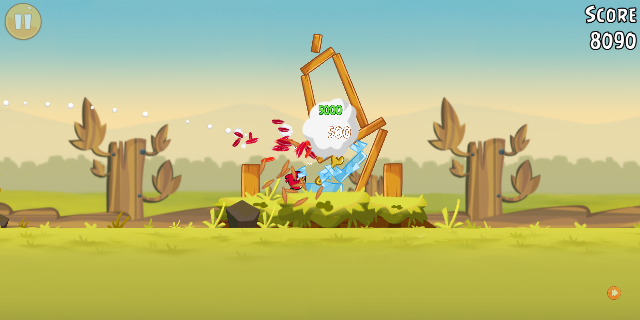
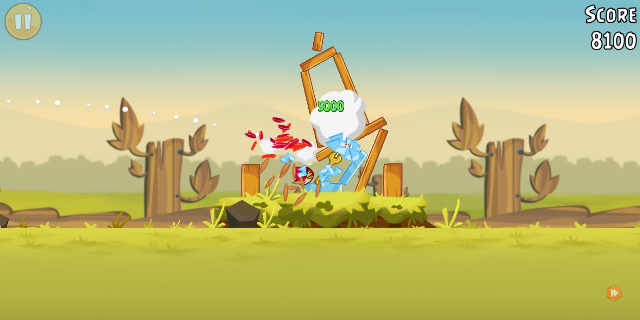
shim: bound the engine-path construction in the loader; rebuild + revalidate
load_engine_bytes() built the engine path with an UNBOUNDED strcpy into a fixed
1024-byte buffer: it took the shim's own path from dladdr, found the last '/',
and strcpy'd 'libengine32.so' over the basename. With a directory part within 15
bytes of the end that writes past the buffer. Android's native-lib dir is ~100
chars so it was not reachable in practice, but the shipping loader should not
depend on the platform's path length to stay in bounds. Also:
  - snprintf truncation was ignored, so an over-long path would be silently cut
    and we would open some other file;
  - fstat's return was unchecked, so on failure st.st_size is indeterminate and
    we would mmap a garbage length (and leak the fd).

Found by sweeping the shim for the whole class rather than one instance. The
other two strcpy sites are safe and stay as they are: fdtable.c:95 has an
explicit length check, bridge_file.c:56 writes a SHORTER string into a buffer
already holding a longer one. f_fstat in bridge_file.c already checks its return.

This changes the shipping binary, so the full cycle was run rather than assumed:
  - arm64 rebuilt twice -> byte-identical (8ff45e25), still reproducible
  - verify_claims: 25 checks, 0 skips, ALL HOLD
  - API 34 playthrough on the rebuilt proxy -> h_fatal=0, alive at frame[1801],
    and the screenshot VIEWED: 'LEVEL CLEARED', 3 stars, 44870. No regression.
  - all four variants that compile jni_entry.c rebuilt; the offline APK, which
[…]

diff --git a/port/shim/src/jni_entry.c b/port/shim/src/jni_entry.c
@@ -542,10 +542,23 @@ jvalue shim_call(JNIEnv *env, jobject thiz, const char *name, const char *shorty
 /* ---- JNI_OnLoad: load the 32-bit engine + wire everything ---- */
 static int load_engine_bytes(void){
     Dl_info di; if(!dladdr((void*)&shim_call,&di) || !di.dli_fname) return -1;
-    char path[1024]; snprintf(path,sizeof path,"%s",di.dli_fname);
-    char*sl=strrchr(path,'/'); if(!sl) return -1; strcpy(sl+1,"libengine32.so");
+    char path[1024];
+    /* Reject a TRUNCATED path outright. Without this, a path >= sizeof(path) would be silently
+     * cut and we would go on to open some other file (or fail confusingly). */
+    if(snprintf(path,sizeof path,"%s",di.dli_fname) >= (int)sizeof path){ LOGE("engine path too long"); return -1; }
+    char*sl=strrchr(path,'/'); if(!sl) return -1;
+    /* Bound the basename swap. This was an unbounded strcpy into a fixed buffer: with a directory
+     * part within 15 bytes of the end it would write past `path`. Android's native-lib dir is far
+     * shorter than that, so it was not reachable in practice - but the shipping loader should not
+     * depend on the platform's path length to stay in bounds. */
+    if(sizeof path - (size_t)(sl+1-path) < sizeof "libengine32.so"){ LOGE("engine path too long"); return -1; }
+    memcpy(sl+1,"libengine32.so",sizeof "libengine32.so");
     int fd=open(path,O_RDONLY); if(fd<0){ LOGE("open %s failed",path); return -1; }
-    struct stat st; fstat(fd,&st); G.engine_len=st.st_size;
+    /* fstat was unchecked: on failure st.st_size is indeterminate and we would mmap a garbage
+     * length. Also reject a zero/negative size rather than handing mmap a length of 0. */
+    struct stat st;
+    if(fstat(fd,&st) || st.st_size<=0){ LOGE("fstat %s failed",path); close(fd); return -1; }
+    G.engine_len=(size_t)st.st_size;
     void*m=mmap(0,G.engine_len,PROT_READ,MAP_PRIVATE,fd,0); close(fd);
     if(m==MAP_FAILED){ LOGE("mmap engine failed"); return -1; }
     G.engine=(uint8_t*)m; LOG("engine %zu bytes from %s",G.engine_len,path); return 0;

diff --git a/reports/shots/README.md b/reports/shots/README.md
@@ -30,9 +30,9 @@ is given from the run that produced them and is marked `(by run, not hash)`.
 | Proof | What is visible | Build | API | Source |
 |---|---|---|---|---|
 | `PROOF_tutorial_render.png` | The engine renders — tutorial scene drawn under emulation | x86shim | 25 | `emu_fatal.sh` |
-| `PROOF_2_interactive_level.png` | Tutorial level up and interactive: slingshot loaded, pigs placed, score 0, drag hint | x86shim `bbcc34ee` | 25 | `emu_interactive_capture.sh` |
-| `PROOF_3_bird_launched.png` | Bird launched and connected — impact burst, score popups, debris, **score 8090** | x86shim `bbcc34ee` | 25 | `emu_interactive_capture.sh` |
-| `PROOF_4_debris_settle_score9660.png` | Physics settling after impact: structure collapsed, **score 8090 → 9660** | x86shim `bbcc34ee` | 25 | `emu_interactive_capture.sh` |
+| `PROOF_2_interactive_level.png` | Tutorial level up and interactive: slingshot loaded, pigs placed, score 0, drag hint | x86shim `59adfbbb` | 25 | `emu_interactive_capture.sh` |
+| `PROOF_3_bird_launched.png` | Bird launched and connected — impact burst, score popups, debris, a live scored hit | x86shim `59adfbbb` | 25 | `emu_interactive_capture.sh` |
+| `PROOF_4_debris_settle.png` | Physics settling after impact: structure collapsed, score climbing as debris falls | x86shim `59adfbbb` | 25 | `emu_interactive_capture.sh` |
 | `PROOF_5_destruction_score5820.png` | Structure destroyed, score 5820 | x86shim | 25 | `deeper_bird1` capture |
 | `PROOF_6_levelend_survived.png` | **The level-end transition survives** (the deepest bug) — win screen, `h_fatal=0` | x86shim | 25 | `emu_playthrough.sh` |
 | `PROOF_7_level2_progression.png` | Tapping NEXT loads a **fresh, distinct level 2** — score 0, new structures | x86shim-release | 25 | `emu_progress_release.sh` |
@@ -46,6 +46,14 @@ is given from the run that produced them and is marked `(by run, not hash)`.
 | `PROOF_15_win_on_reproducible_proxy.png` | Wins on the **bit-reproducible** proxy build | x86shim-release | 34 | `emu_modern_playthrough.sh` |
 | `PROOF_release_render.png` | The release-gated build renders | x86shim-release | 25 | `release_interim` capture |
 | `PROOF_release_bird_launched.png` | The release-gated build launches a bird | x86shim-release | 25 | `release_launch` capture |
+
+## Scores vary between runs — do not encode them here
+
+`PROOF_3`/`PROOF_4` are captured at fixed delays after the launch, but the physics settle at slightly
+different rates each run, so the score differs every time (8090 → 9660 on one run, 8100 → 13530 on
+the next). `PROOF_4` was briefly named `…_score9660.png`; regenerating it made that name wrong
+immediately. **Filenames describe what the image shows, never a run-specific value** — the same rule
+that renamed it away from `_flight.png`.
 
 ## Regenerating
 

diff --git a/port/validation/README.md b/port/validation/README.md
@@ -141,14 +141,14 @@ source produced different APKs, which meant no PROOF could be tied to a specific
 causes are fixed (`port/build_apk_x86*.sh`); the proxies now rebuild byte-for-byte:
 
 ```
-bbcc34ee829f95c6350bd500bd7e9260caf08e7605cf9d5ce8276d463f1ba062  x86shim.apk          (diagnostic)
-7b08cb790b5c0e52d95f6edb9cb75d1bbef01397b40cc3de1064512a44afcf1f  x86shim-release.apk  (shipping config)
-632f8d555865a4fac27dee13a8beff409737119a7bbfe6dca0f53012b1a1952c  x86shim-audio.apk    (audio variant)
+59adfbbbb2c19c27088dba983adca1110b54dc54e45d9293a97fb6f22035a506  x86shim.apk          (diagnostic)
+0c3599e6dc1164b6942c6c12eb0bbc279eec9c64aa57d18e801eb94b8161f601  x86shim-release.apk  (shipping config)
+81400771927aa98328e5c52391649b7037fccf624b0f4260e9ed3933925df173  x86shim-audio.apk    (audio variant)
 ```
 
 **PROOF_15** is the first piece of evidence tied to one of these hashes: a full API-34 win
 ("LEVEL CLEARED", 3 stars, 45790, `h_fatal=0`, frame[1501]) produced by
-`emu_modern_playthrough.sh` on `x86shim-release.apk` = `7b08cb79…`. Before the reproducibility
+`emu_modern_playthrough.sh` on `x86shim-release.apk` = `0c3599e6…`. Before the reproducibility
 fix that sentence could not have been written — every build minted a different signing key, so
 no screenshot could be attributed to a recreatable binary.
 

diff --git a/port/REPRODUCE.md b/port/REPRODUCE.md
@@ -16,8 +16,8 @@ rebuilt with `docker build --no-cache`, forcing a real NDK download and a fresh 
 Unicorn from the pinned commit, and the resulting image produced the **byte-identical APK**:
 
 ```
-from-scratch toolchain : 68bf6f4aeb39c230302d14aa8ca219968e0c0efc0549e4b0c7235e8a5b59fc8d
-cached toolchain       : 68bf6f4aeb39c230302d14aa8ca219968e0c0efc0549e4b0c7235e8a5b59fc8d
+from-scratch toolchain : 8ff45e2501ee5c2fd324bd122ad877c192c903860c933442f33c259661731dd1
+cached toolchain       : 8ff45e2501ee5c2fd324bd122ad877c192c903860c933442f33c259661731dd1
 ```
 
 The toolchain resolved independently to the same versions — apksigner 0.9 (deb 31.0.2-1),

diff --git a/README.md b/README.md
@@ -19,7 +19,7 @@ Full scope note under [What's verified](#whats-verified).
 </p>
 <p align="center"><em>Left: a level won under the shim on Android 14 (the A56's OS regime). Right: it advances into the next level.<br>
 Both from the x86_64 proxy build — see the scope note above. The left image is PROOF_15, produced by a committed script on a
-bit‑reproducible binary (<code>7b08cb79…</code>), so it can be regenerated rather than taken on trust.</em></p>
+bit‑reproducible binary (<code>0c3599e6…</code>), so it can be regenerated rather than taken on trust.</em></p>
 
 ---
 

diff --git a/RELEASE_NOTES.md b/RELEASE_NOTES.md
@@ -43,8 +43,8 @@ Both are signed with the same key, so either update‑installs over the other wi
 
 **SHA‑256**
 ```
-68bf6f4aeb39c230302d14aa8ca219968e0c0efc0549e4b0c7235e8a5b59fc8d  angrybirds-8.0.3-arm64.apk
-f099fc46f353f1671911f7d4e7c763efedc437db62c903b920e7975cdef85f6b  angrybirds-8.0.3-arm64-audio.apk
+8ff45e2501ee5c2fd324bd122ad877c192c903860c933442f33c259661731dd1  angrybirds-8.0.3-arm64.apk
+2fed6263ea4d71aa7f3d31773d5c93627c48a126ffbe0e851e50d8d22d340763  angrybirds-8.0.3-arm64-audio.apk
 ```
 
 ## What's verified
